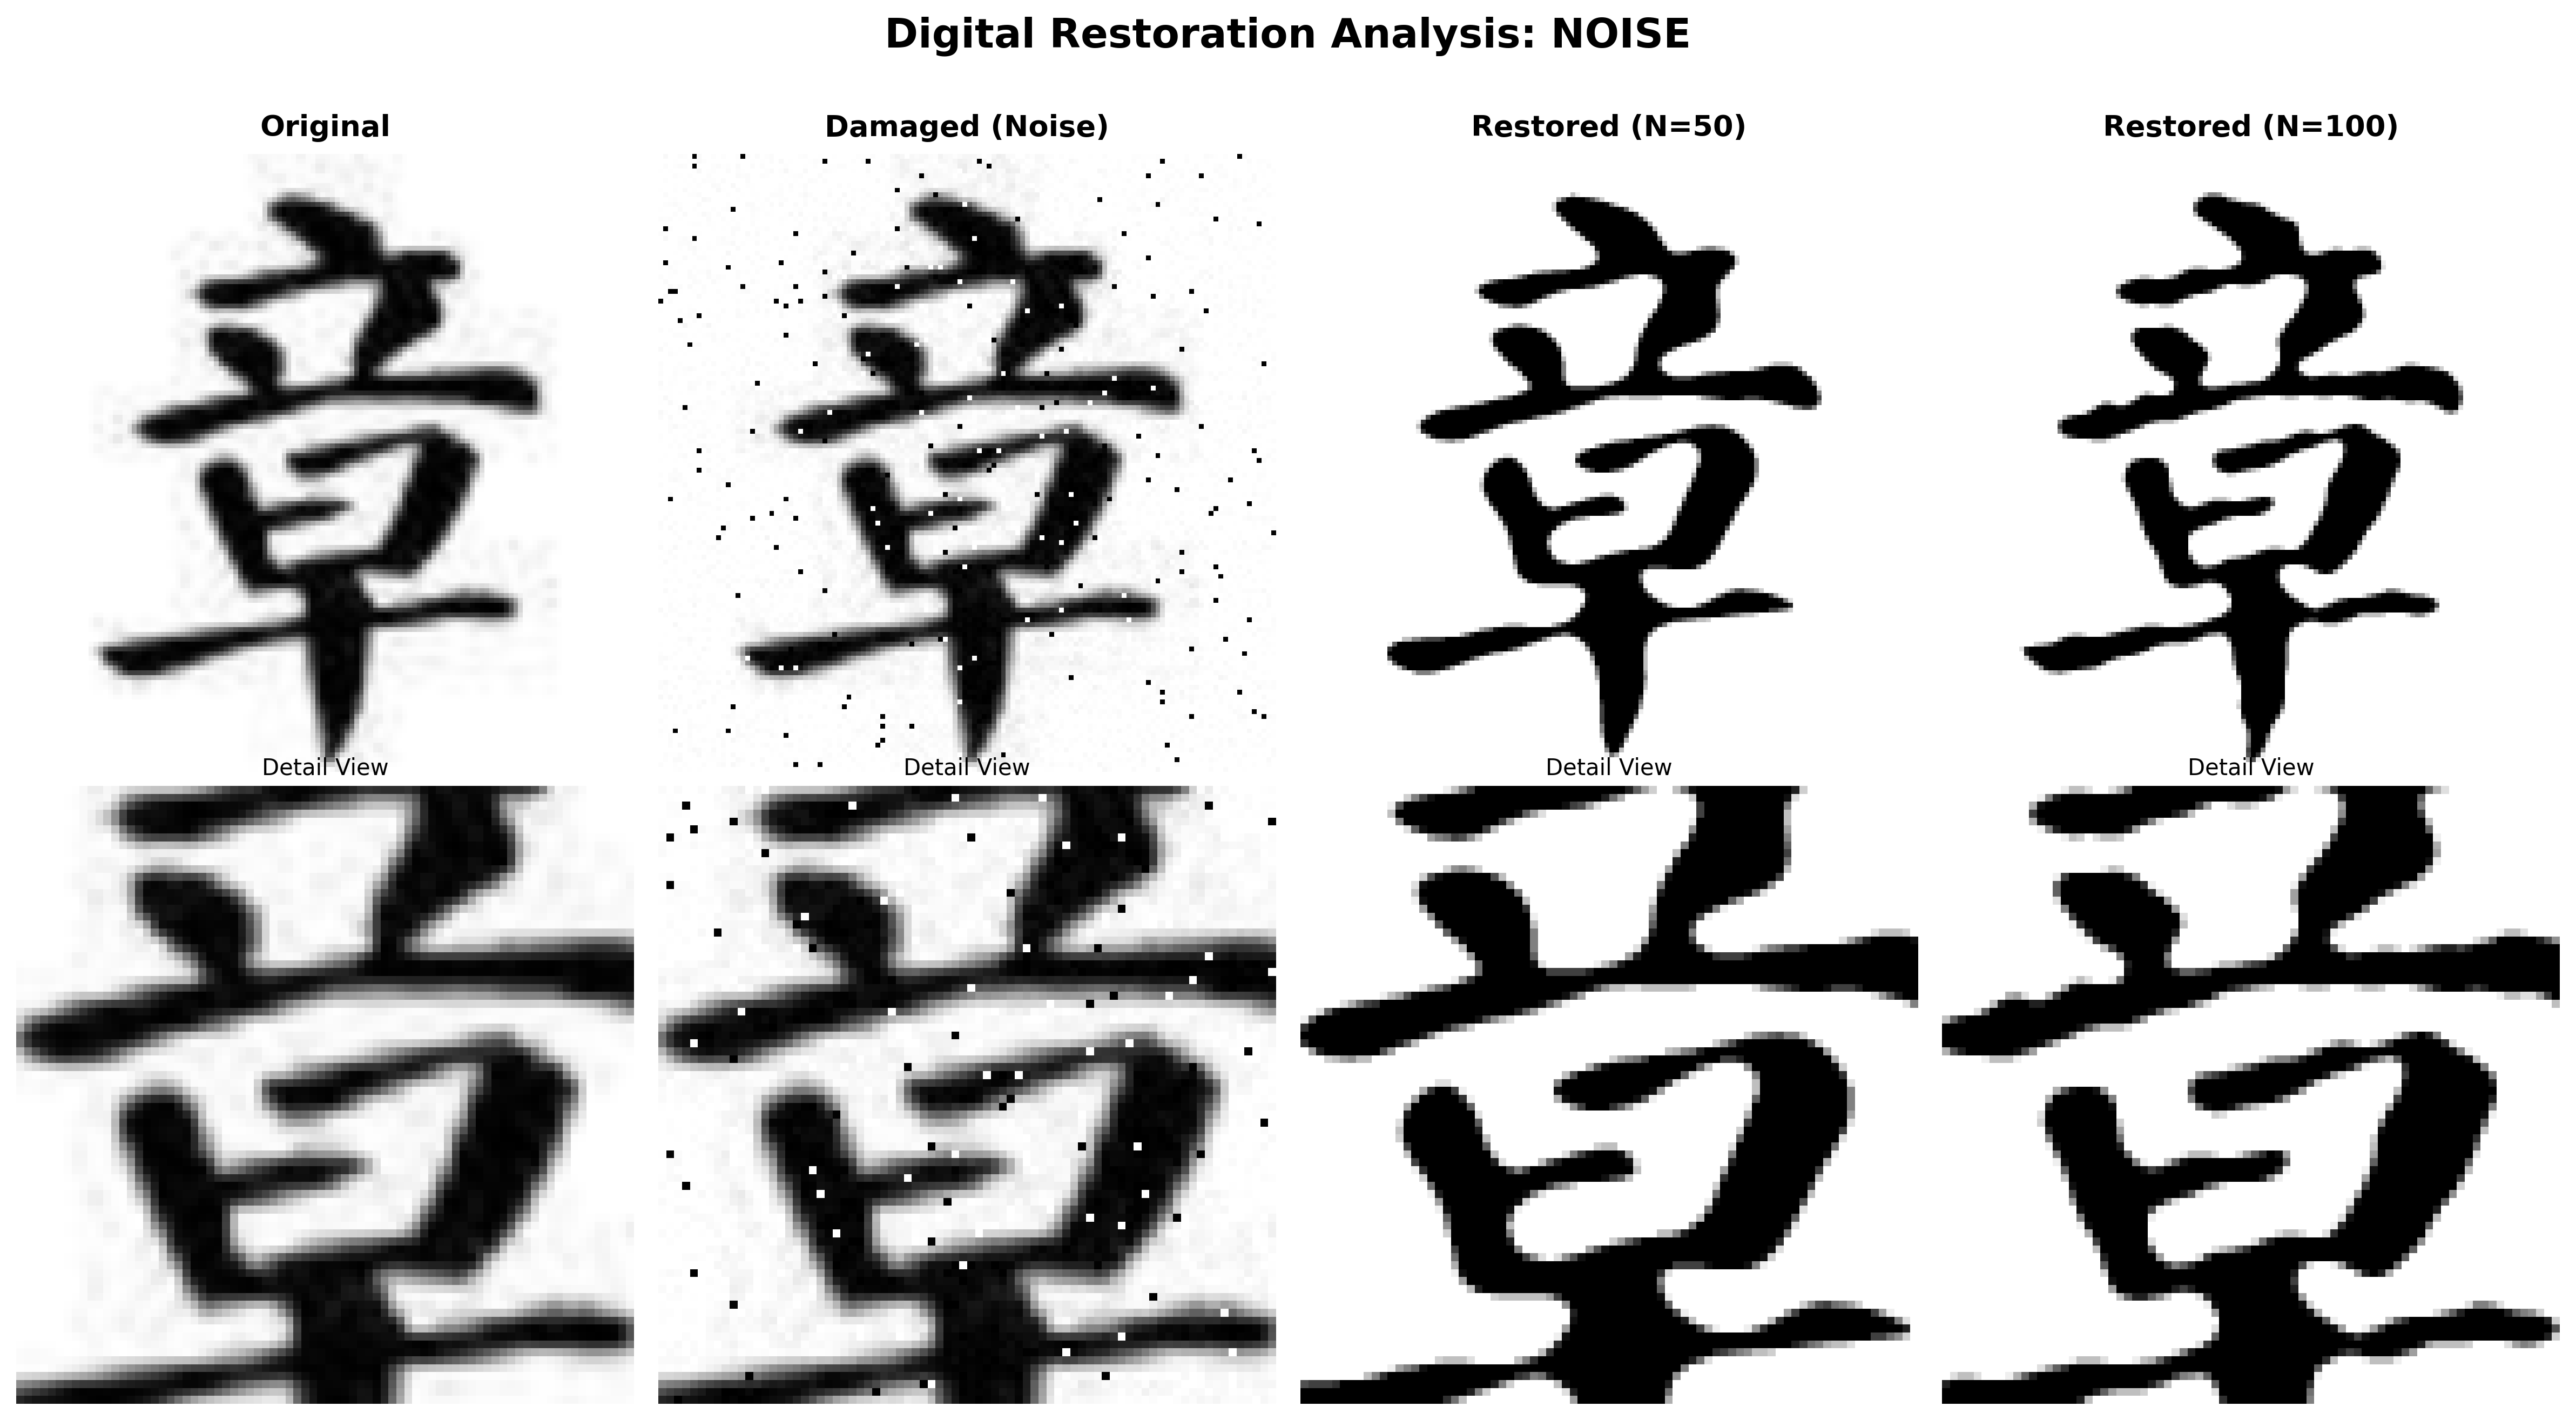
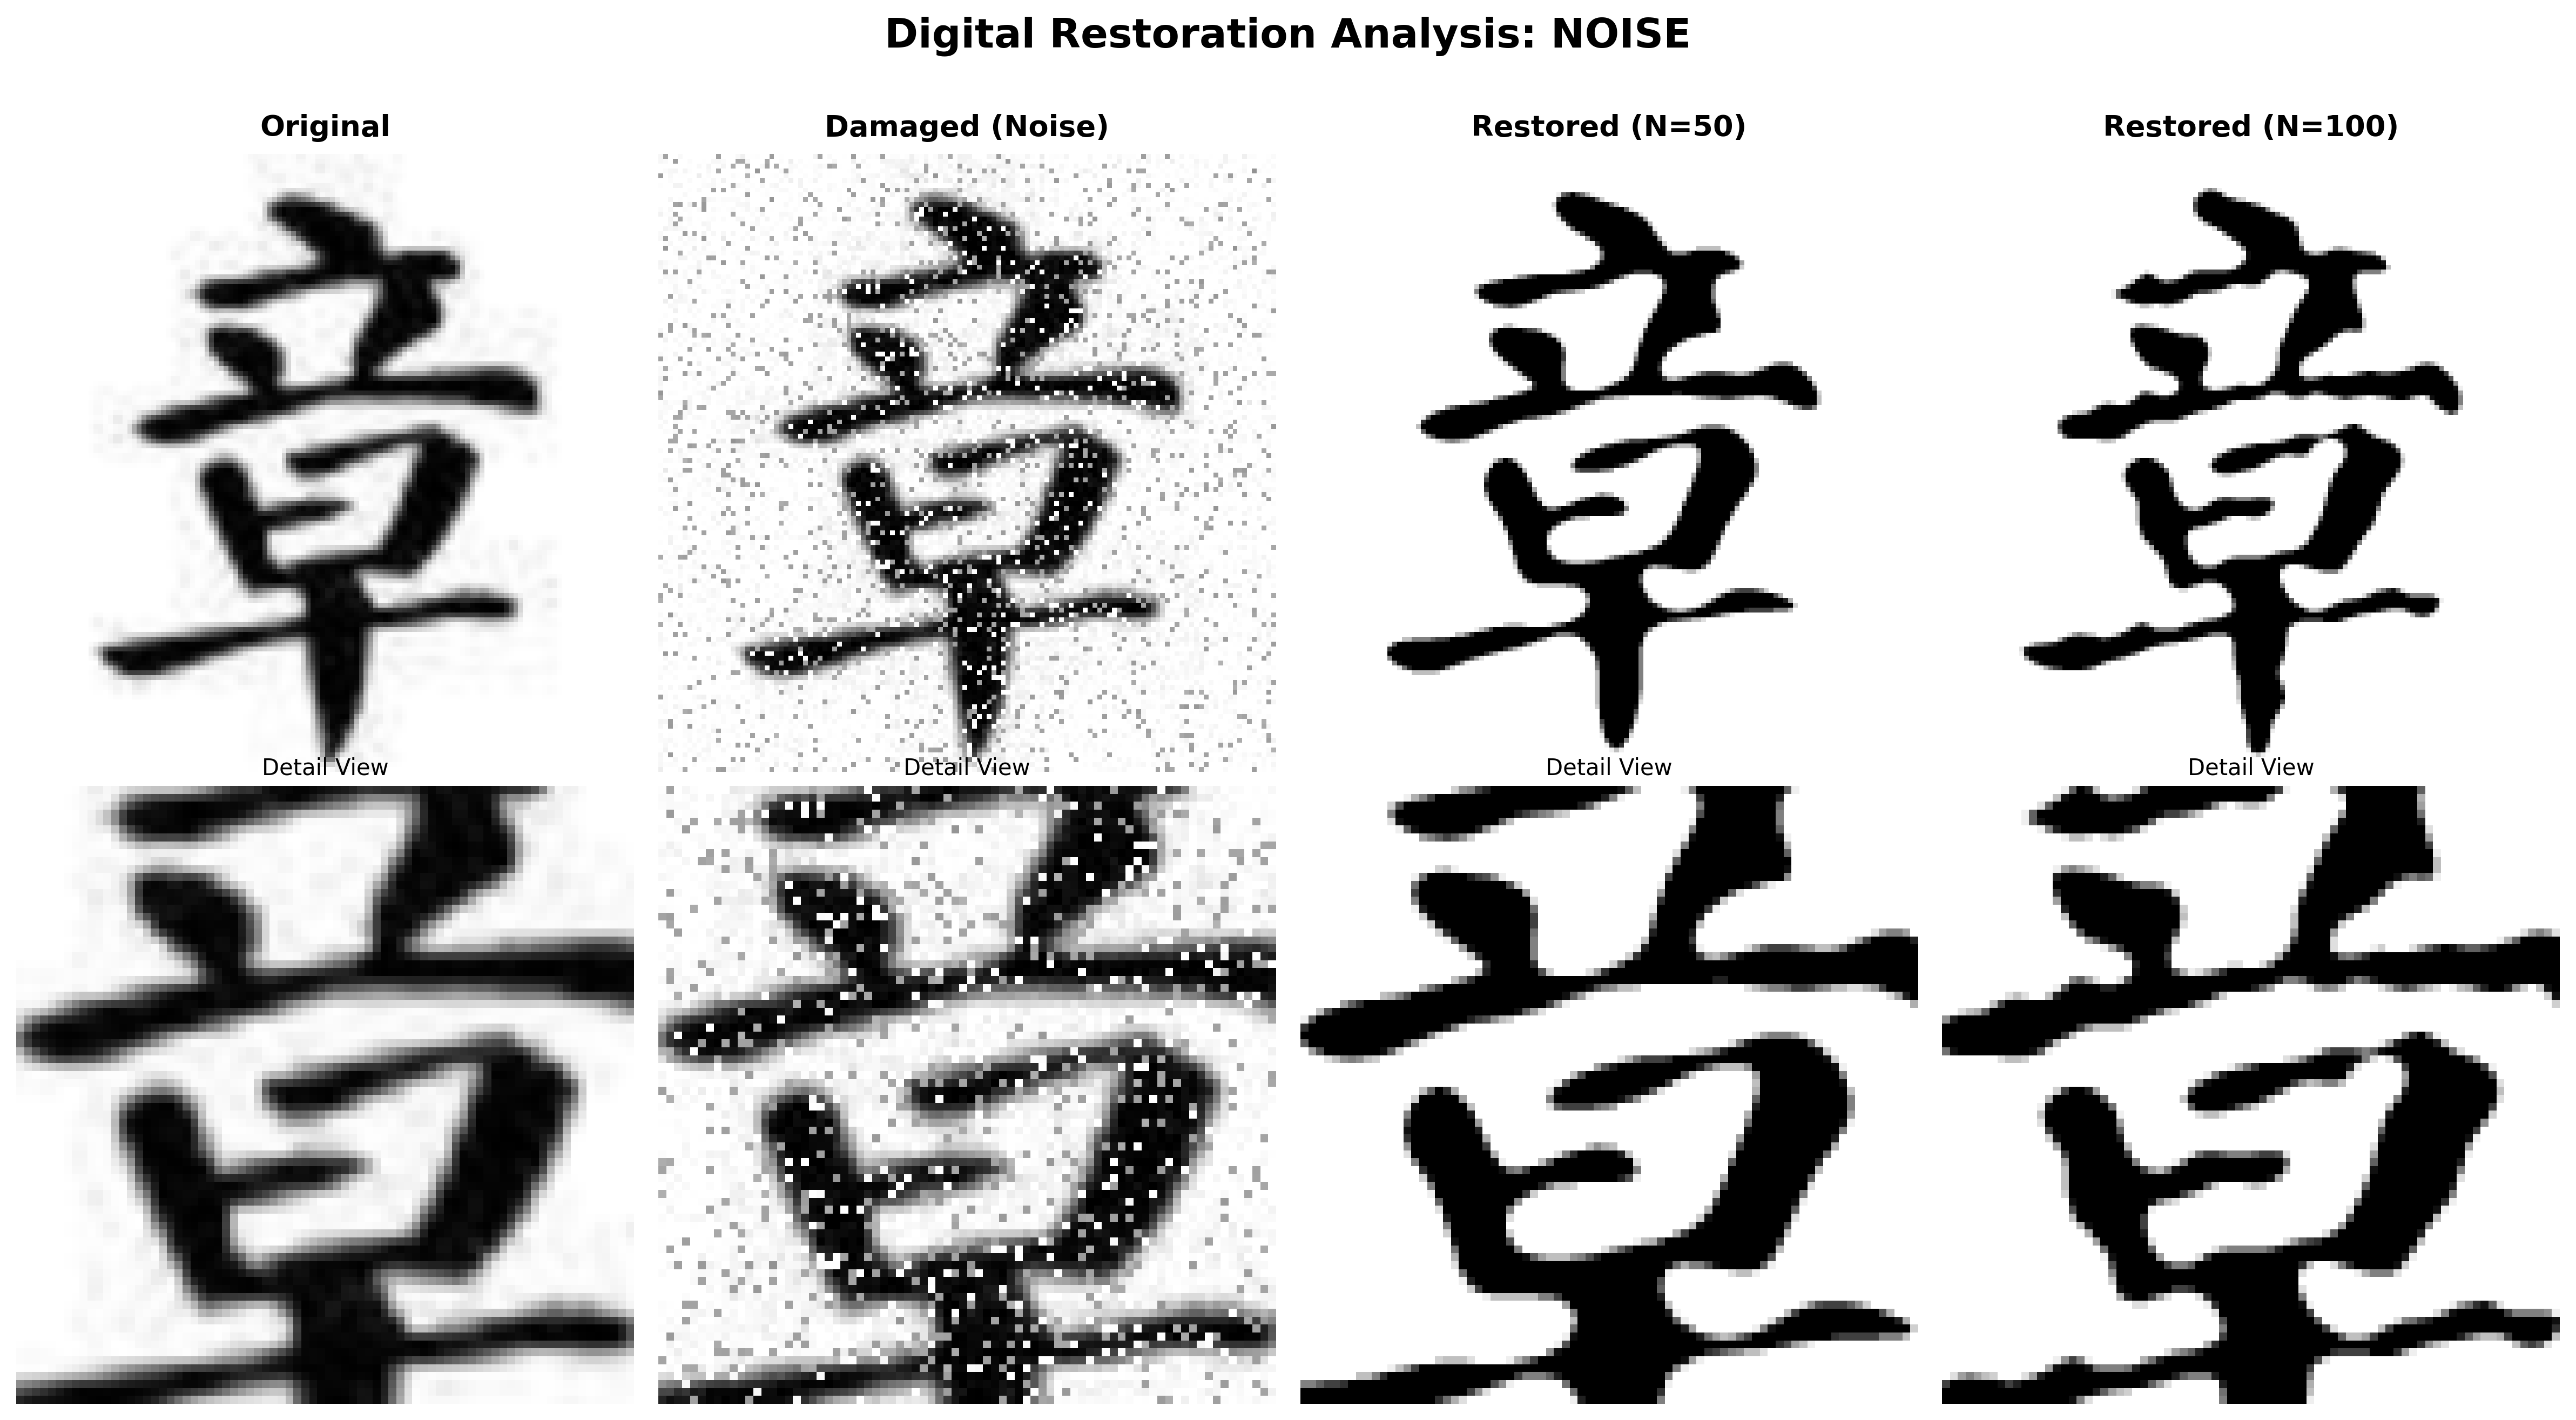
改善三種破壞效果的可視性與合理性
- Erosion: 加大 kernel (2→3/3→4/4→5) 使筆畫侵蝕更明顯
- Noise: 提高噪點密度，暗點改用中灰色(100~170)避免與黑色筆畫混淆
- Occlusion: 改為半透明混合(alpha 0.5~0.7)淺灰色方塊，底下筆畫隱約可見

https://claude.ai/code/session_01UB9aZ2pvEnTTXMeykivJjY

diff --git a/modules/restoration_demo.py b/modules/restoration_demo.py
@@ -30,61 +30,62 @@ def add_damage(image, damage_type="noise", intensity=0.3, severity="medium"):
     
     # 定义三级强度映射
     severity_params = {
-        'light': {'noise_ratio': 0.05, 'erosion_kernel': 2, 'occlusion_count': 2},
-        'medium': {'noise_ratio': 0.10, 'erosion_kernel': 3, 'occlusion_count': 3},
-        'heavy': {'noise_ratio': 0.20, 'erosion_kernel': 4, 'occlusion_count': 5}
+        'light': {'noise_ratio': 0.08, 'erosion_kernel': 3, 'occlusion_count': 2},
+        'medium': {'noise_ratio': 0.15, 'erosion_kernel': 4, 'occlusion_count': 3},
+        'heavy': {'noise_ratio': 0.25, 'erosion_kernel': 5, 'occlusion_count': 5}
     }
     params = severity_params.get(severity, severity_params['medium'])
-    
+
     if damage_type == "noise":
-        # 🎯 椒盐噪声：密密麻麻的黑白像素点
-        noise_ratio = params['noise_ratio'] * intensity
+        # 🎯 椒盐噪声：用灰色調而非純黑，避免與筆畫混淆
+        noise_ratio = params['noise_ratio']
         salt_pepper_mask = np.random.rand(h, w) < noise_ratio
-        salt_mask = np.random.rand(h, w) > 0.5  # 50% 白点, 50% 黑点
-        
-        damaged[salt_pepper_mask & salt_mask] = 255  # 盐噪声 (白点)
-        damaged[salt_pepper_mask & ~salt_mask] = 0   # 椒噪声 (黑点)
-        
-        # 混合轻微高斯噪声增加真实感
-        gaussian_noise = np.random.normal(0, intensity * 15, image.shape).astype(np.int16)
+        salt_mask = np.random.rand(h, w) > 0.5
+
+        # 白點保持 255，「暗點」用中灰色 (120~180) 而非純黑
+        damaged[salt_pepper_mask & salt_mask] = 255
+        damaged[salt_pepper_mask & ~salt_mask] = np.random.randint(100, 170)
+
+        # 高斯噪声加大
+        gaussian_noise = np.random.normal(0, intensity * 30, image.shape).astype(np.int16)
         damaged = np.clip(damaged.astype(np.int16) + gaussian_noise, 0, 255).astype(np.uint8)
-        
+
     elif damage_type == "erosion":
-        # 🎯 形态学侵蚀：笔画变细，转折处轻微断裂
+        # 🎯 形态学侵蚀：加大 kernel 使效果明顯可見
         kernel_size = params['erosion_kernel']
-        # 使用椭圆形kernel使效果更自然
         kernel = cv2.getStructuringElement(cv2.MORPH_ELLIPSE, (kernel_size, kernel_size))
-        # 对于黑色笔画(0)在白色背景(255)上，使用dilate使黑色区域变细
+        # 對黑色筆畫(0)在白色背景(255)上，dilate 使黑色區域縮小
         damaged = cv2.dilate(damaged, kernel, iterations=1)
-        
+
     elif damage_type == "occlusion":
-        # 🎯 多区域遮挡：模拟墨水污渍、印章、纸张破损
+        # 🎯 半透明遮擋：用淺色方塊混合原圖，不用黑色
         num_occlusions = params['occlusion_count']
-        
+
         for _ in range(num_occlusions):
-            # 隨機大小：10×10 到 25×25 像素（更明顯的遮擋）
-            box_w = np.random.randint(int(w * 0.15), int(w * 0.40))
-            box_h = np.random.randint(int(h * 0.15), int(h * 0.40))
-            
-            # 随机位置
+            box_w = np.random.randint(int(w * 0.15), int(w * 0.35))
+            box_h = np.random.randint(int(h * 0.15), int(h * 0.35))
+
             if h > box_h and w > box_w:
                 y = np.random.randint(0, h - box_h)
                 x = np.random.randint(0, w - box_w)
-                
-                # 随机遮挡类型：浅灰污渍 (70%) 或深色墨水 (30%)
-                if np.random.rand() > 0.3:
-                    occlusion_value = np.random.randint(180, 230)  # 浅灰污渍
-                else:
-                    occlusion_value = np.random.randint(0, 50)     # 深色墨水
-                
-                # 创建遮挡区域
-                damaged[y:y+box_h, x:x+box_w] = occlusion_value
-                
-                # 添加边缘渐变使遮挡更自然
-                roi = damaged[max(0,y-1):min(h,y+box_h+1), max(0,x-1):min(w,x+box_w+1)]
-                if roi.size > 0:
-                    blurred = cv2.GaussianBlur(roi, (3, 3), 0)
-                    damaged[max(0,y-1):min(h,y+box_h+1), max(0,x-1):min(w,x+box_w+1)] = blurred
+
+                # 遮擋顏色：淺灰到中灰 (150~220)，絕不用黑色
+                occlusion_value = np.random.randint(150, 220)
+
+                # 半透明混合 (alpha=0.5~0.7)，讓底下筆畫隱約可見
+                alpha = np.random.uniform(0.5, 0.7)
+                roi = damaged[y:y+box_h, x:x+box_w].astype(np.float32)
+                blended = roi * (1 - alpha) + occlusion_value * alpha
+                damaged[y:y+box_h, x:x+box_w] = blended.astype(np.uint8)
+
+                # 邊緣高斯模糊使過渡更自然
+                pad = 2
+                y0, y1 = max(0, y - pad), min(h, y + box_h + pad)
+                x0, x1 = max(0, x - pad), min(w, x + box_w + pad)
+                roi_blur = damaged[y0:y1, x0:x1]
+                if roi_blur.size > 0:
+                    blurred = cv2.GaussianBlur(roi_blur, (5, 5), 0)
+                    damaged[y0:y1, x0:x1] = blurred
     
     return damaged
 